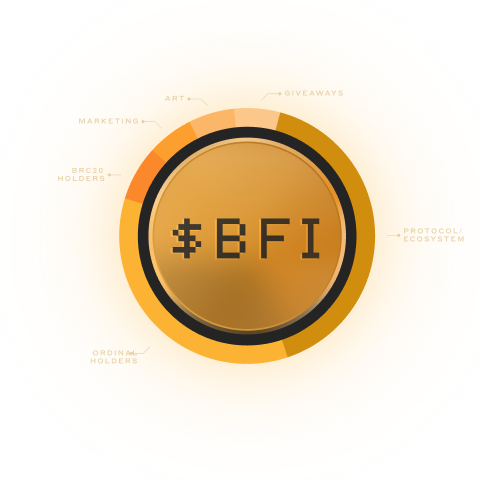
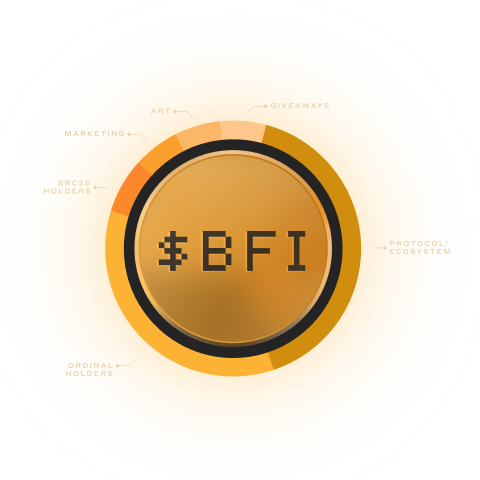
image add on mobile screen bfi image

diff --git a/index.html b/index.html
@@ -390,10 +390,10 @@
   <!-- ========== THE BITSCAPE SECTION ============ -->
   <section class="border_top overflow_hidden position_relative z_1">
     <div class="d_md_none position_relative d_flex justify_content_center">
-      <div class="border_rounded position_absolute"></div>
+      <!-- <div class="border_rounded position_absolute"></div> -->
       <div class="blur_layer position_absolute"></div>
-      <div class="border_rounded_second position_absolute"></div>
-      <img class="mobile_img w_100" src="./assets/images/png/mobile_bfi_img.png" alt="mobile_bfi">
+      <!-- <div class="border_rounded_second position_absolute"></div> -->
+      <img class="mobile_img w_100" src="./assets/images/png/Image (32).png" alt="mobile_bfi">
     </div>
     <div class="custom_container position_relative mb_n4 bg_gray position_mobile">
       <div class="d_flex flex_column  bfi_section justify_content_center">

diff --git a/assets/css/style.css b/assets/css/style.css
@@ -68,10 +68,10 @@
 
 .mobile_img {
     max-width: 400px;
-    min-height: 400px;
+    min-height: 370px;
     width: 100%;
     object-fit: cover;
-    transform: translateX(-10px);
+    /* transform: translateY(-10px); */
 }
 
 .border_rounded_second,
@@ -87,6 +87,7 @@
 .blur_layer {
     height: 100px;
     width: 300px;
+    border-radius: 50%;
     background-color: var(--color-meteor);
     filter: blur(100px);
     bottom: 20%;
@@ -95,7 +96,7 @@
 }
 
 .position_mobile {
-    margin-top: -45px;
+    margin-top: -10px;
 }
 
 .border_rounded_second {
